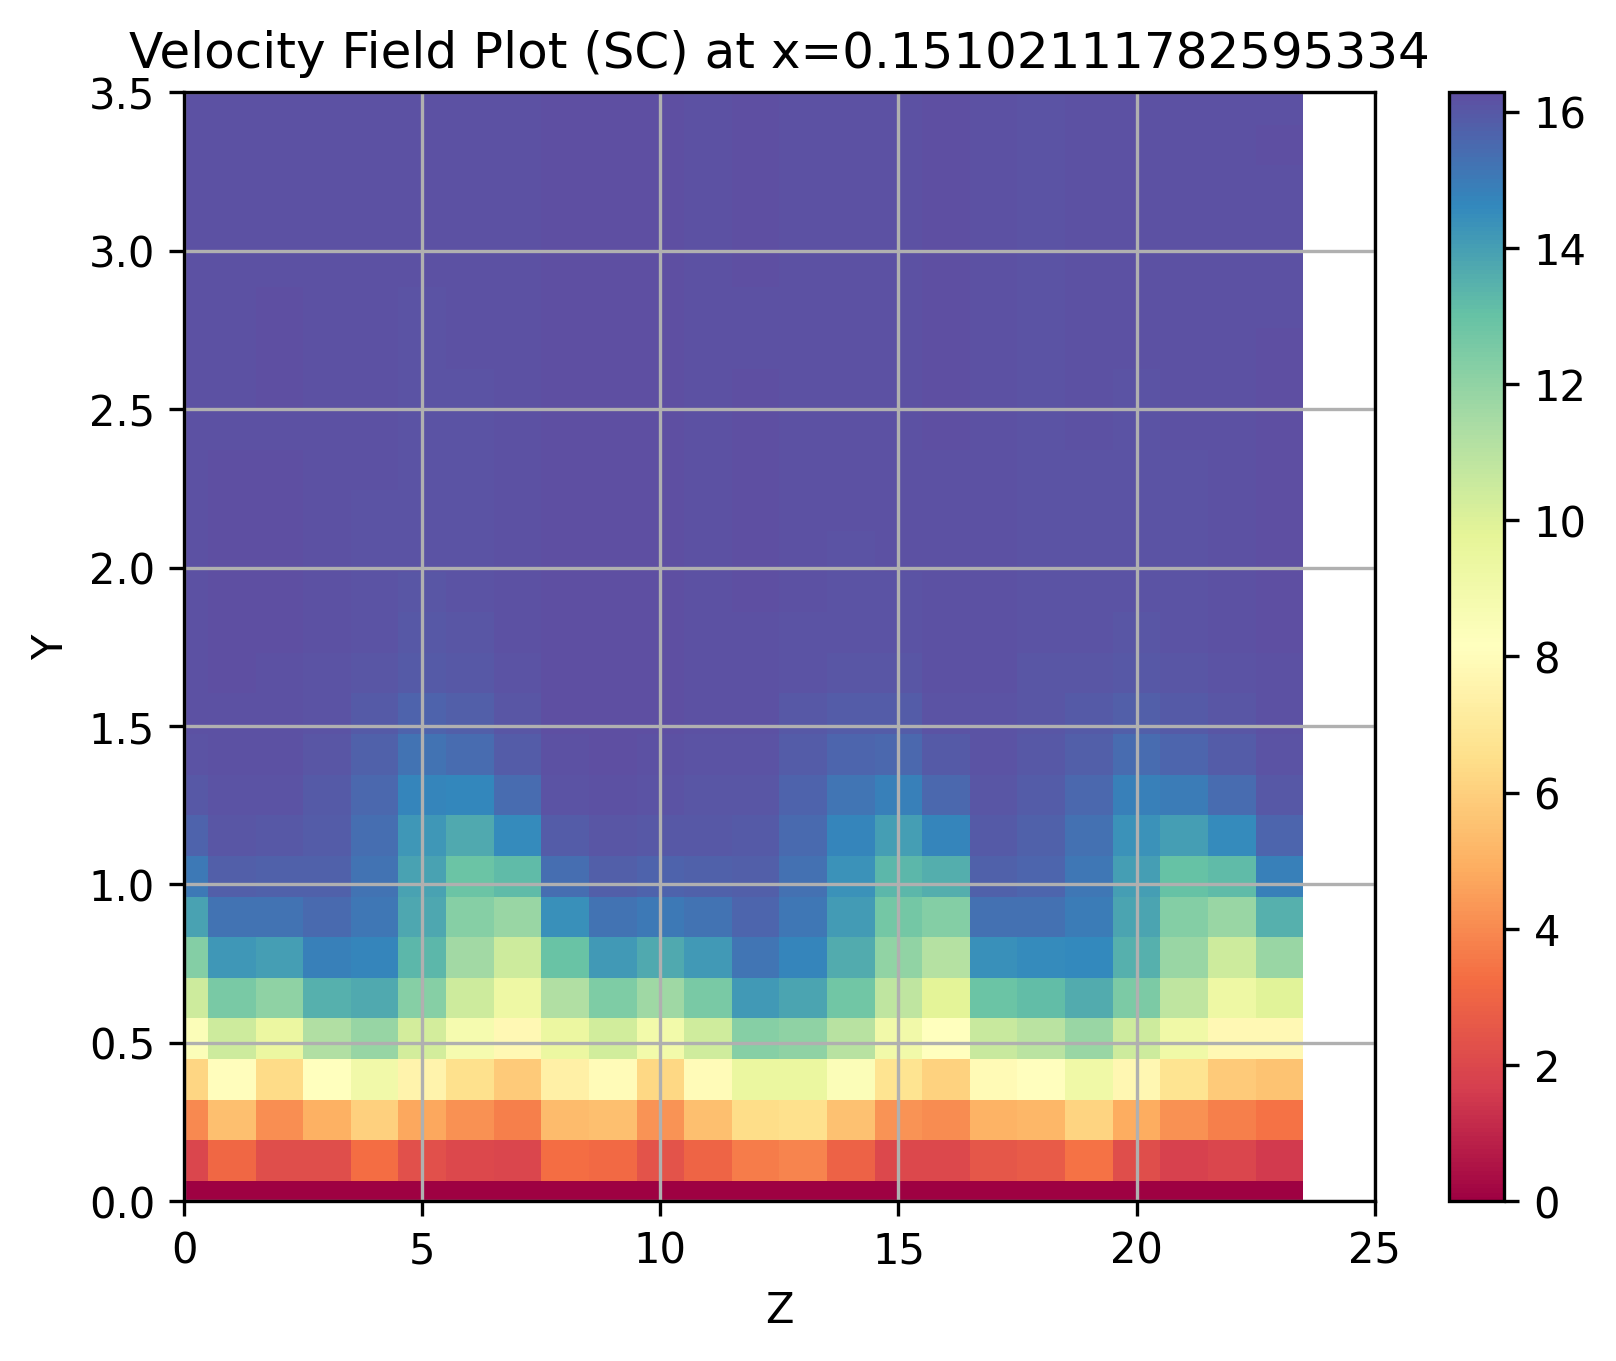
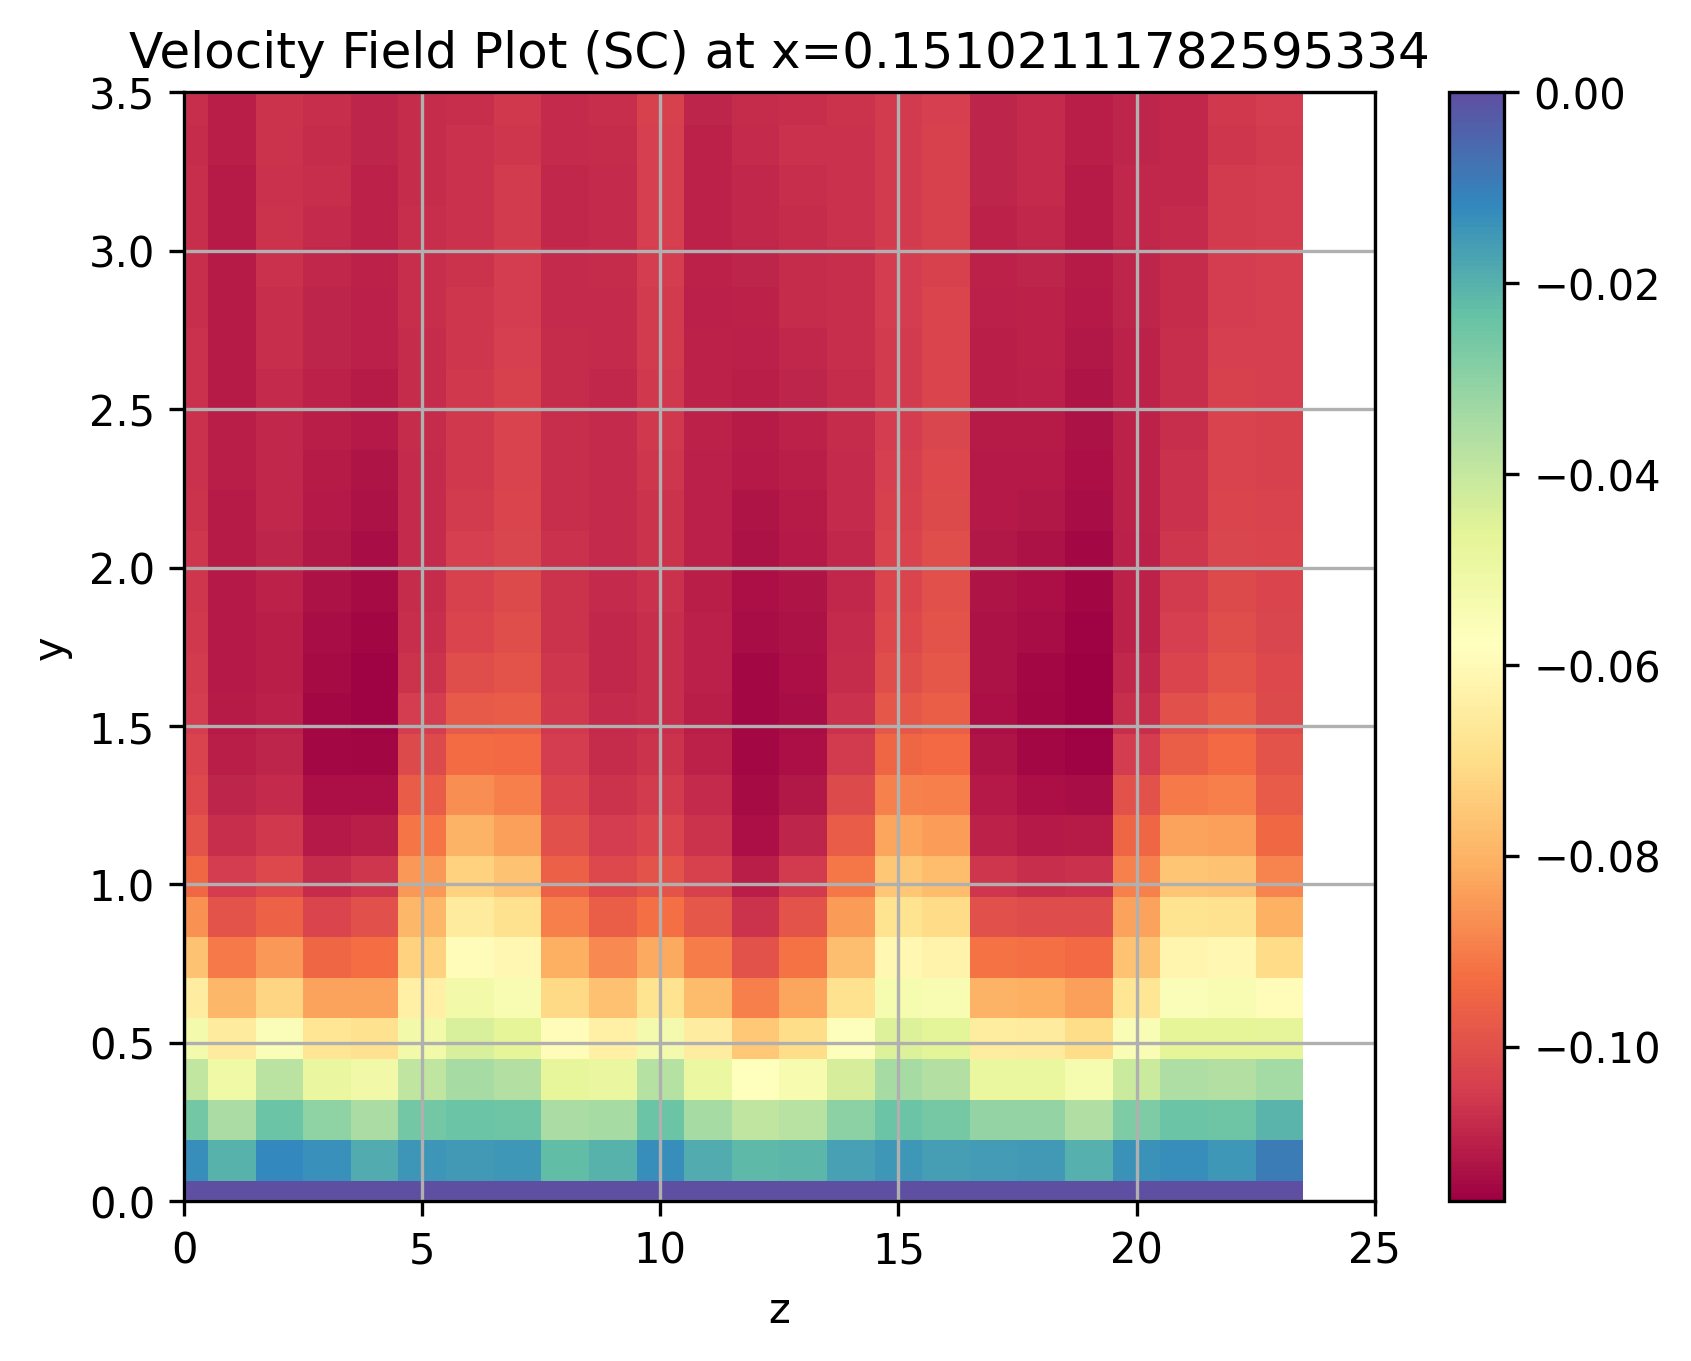
commit

diff --git a/yzcontourplots.py b/yzcontourplots.py
@@ -5,6 +5,7 @@ import os
 import matplotlib.pyplot as plt
 from mpl_toolkits.mplot3d import Axes3D
 from mpl_toolkits.mplot3d.art3d import Poly3DCollection
+import scipy as sp
 
 
 # Folder containing all plane files
@@ -123,9 +124,9 @@ vmin = -vmax
 
 #ax.quiver(Y[::stepy,::stepx,:],X[::stepy,::stepx,:], Z[::stepy,::stepx,:], V_3D[::stepy,::stepx,:],U_3D[::stepy,::stepx,:], W_3D[::stepy,::stepx,:],length=0.1)
 for x in range(0,len(x_values),15):
-    plt.pcolormesh(Z,Y,U_3D[:,x,:],cmap='Spectral') #vmin=vmin,vmax=vmax) # vmin=float(np.min(DiffV_3D)),vmax=float(np.max(DiffV_3D))
-    plt.xlabel("Z")
-    plt.ylabel("Y")
+    plt.pcolormesh(Z,Y,V_3D[:,x,:]/np.mean(U_3D[27,x,:]),cmap='Spectral') #vmin=vmin,vmax=vmax) # vmin=float(np.min(DiffV_3D)),vmax=float(np.max(DiffV_3D))
+    plt.xlabel("z")
+    plt.ylabel("y")
     plt.xlim(0, 25)
     plt.ylim(0, 3.5)
     plt.title(f"Velocity Field Plot (SC) at x={x_values[x]}")
@@ -141,7 +142,10 @@ for x in range(0,len(x_values),15):
 
     print(f"Saved: {out_path}")
 
-    print(np.shape(Uc_3D))
+    fft = sp.fft((V_3D[10,x,:]/np.mean(U_3D[27,x,:]))/np.mean(V_3D[:,x,:]/np.mean(U_3D[27,x,:])))
+
+    print(fft)
+
 
     Uc_3D[:,x,:] = Uc_3D[:,x,:]/np.mean(Uc_3D[27,x,:])
     U_3D[:,x,:] = U_3D[:,x,:]/np.mean(U_3D[27,x,:])
